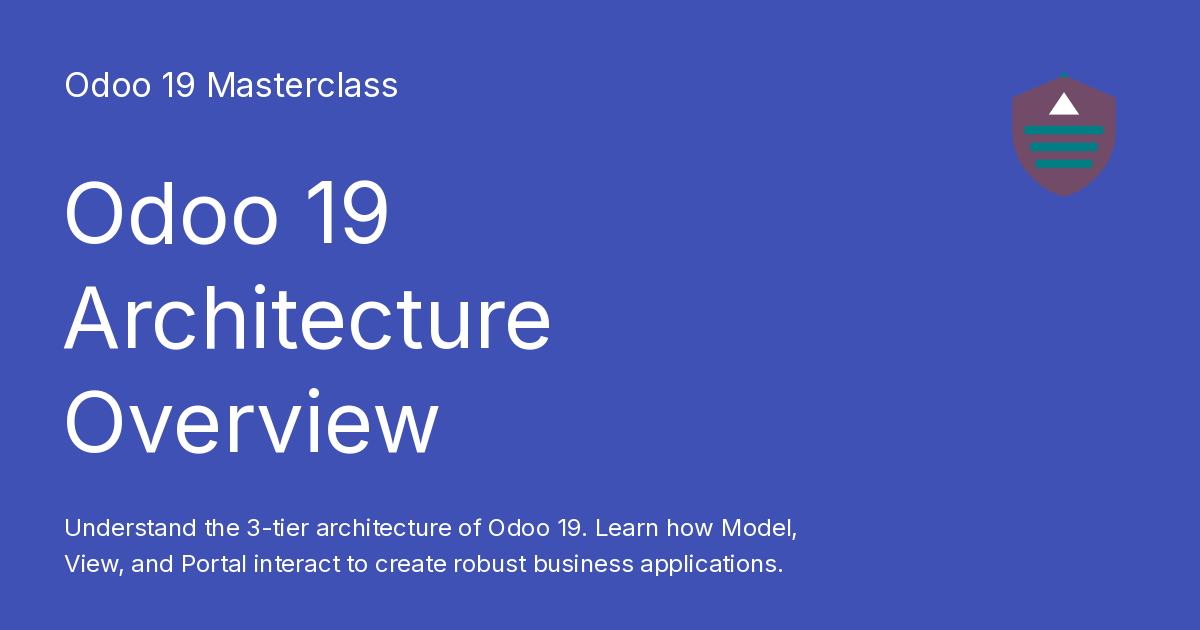
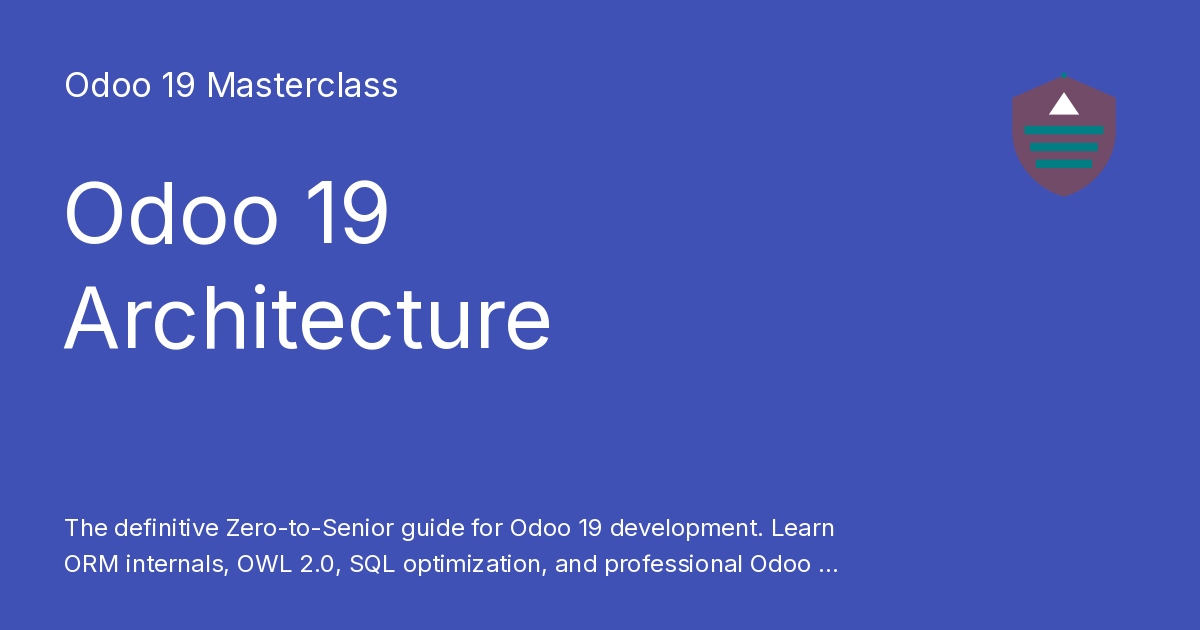
fix(docs): restore missing content and correctly add architectural diagrams and challenges

Changed region(s): [[0.0308, 0.8143, 0.7092, 0.9048], [0.0308, 0.6032, 0.37, 0.7238]]

diff --git a/docs/frontend/owl.md b/docs/frontend/owl.md
@@ -1,24 +1,215 @@
 ---
-title: Odoo 19 OWL Component Lifecycle
-description: Master the OWL 2.0 component lifecycle. Understand setup, mounting, and patching for reactive UIs.
+tags:
+  - Frontend
+  - Javascript
+  - OWL 2.0
+  - Components
 ---
 
-# Odoo 19: OWL Component Lifecycle
+# Odoo 19 OWL Framework
 
-OWL components go through a strict lifecycle.
+OWL (Owl Web Library) is the modern JavaScript framework used by Odoo to build fast, reactive, and component-based user interfaces.
+
+---
+
+## Component Lifecycle
 
 ```mermaid
 sequenceDiagram
-    participant C as Component
-    participant S as setup()
-    participant M as mount()
-    participant P as patch()
+    participant OWL as OWL Engine
+    participant Comp as Component
+    participant DOM as Browser DOM
+
+    Note over Comp: setup()
+    OWL->>Comp: 1. setup() (Initialize state/hooks)
+    OWL->>Comp: 2. onWillStart() (Async data fetch)
+    Comp-->>OWL: Data Ready
+    OWL->>Comp: 3. render()
+    Comp->>DOM: Patching DOM
+    OWL->>Comp: 4. onMounted() (DOM is ready)
     
-    C->>S: Initialize State/Services
-    S->>M: DOM Insertion
-    M->>P: Reactive Updates
+    Note over Comp: Component Updates...
+    
+    OWL->>Comp: 5. onWillUnmount() (Cleanup)
+    Comp->>DOM: Removed from DOM
 ```
 
 ### Master Project Challenge: OWL
 1.  **Task**: Add a `useEffect` hook to your `AuctionTimer` component that logs "Component Mounted" on initialization.
 2.  **Goal**: Understand when state becomes reactive in the lifecycle.
+
+---
+
+## What is OWL?
+
+OWL is a declarative component framework, similar to Vue or React, but specifically optimized for the Odoo ecosystem.
+
+- **Component-based**: UI is split into small, reusable pieces.
+- **Reactive**: The UI updates automatically when data changes.
+- **Templates**: Uses QWeb templates for rendering.
+- **Hooks**: Specialized functions for lifecycle and service management.
+
+---
+
+## Basic Component Structure
+
+Every OWL component is a JavaScript class that extends `Component`.
+
+### Simple Example: Counter Component
+A basic example showing state management and event handling.
+
+```javascript
+import { Component, useState, xml } from "@odoo/owl";
+
+export class Counter extends Component {
+    static template = xml`
+        <div class="p-4 bg-light border text-center">
+            <h3>Count: <t t-out="state.value"/></h3>
+            <button class="btn btn-primary" t-on-click="increment">Add +1</button>
+        </div>
+    `;
+
+    setup() {
+        this.state = useState({ value: 0 });
+    }
+
+    increment() {
+        this.state.value++;
+    }
+}
+```
+
+---
+
+## Senior Example: Data Dashboard
+A more advanced example using Odoo services to fetch real-time auction data.
+
+```javascript
+import { Component, useState, onWillStart } from "@odoo/owl";
+import { useService } from "@web/core/utils/hooks";
+
+export class AuctionDashboard extends Component {
+    static template = "pways_auction.Dashboard";
+    
+    setup() {
+        // Services injection
+        this.orm = useService("orm");
+        this.notification = useService("notification");
+        
+        // Reactive state
+        this.state = useState({
+            listings: [],
+            loading: true
+        });
+
+        // Lifecycle Hook: Fetch data before rendering
+        onWillStart(async () => {
+            try {
+                this.state.listings = await this.orm.searchRead(
+                    "auction.listing",
+                    [ ["state", "=", "active"] ],
+                    ["name", "current_price", "end_date"]
+                );
+            } catch (error) {
+                this.notification.add("Failed to load auctions", { type: "danger" });
+            } finally {
+                this.state.loading = false;
+            }
+        });
+    }
+}
+```
+
+---
+
+## Hooks Reference
+
+| Hook | Description |
+| :--- | :--- |
+| `setup()` | Called when the component is created. Used to initialize state and services. |
+| `onWillStart()` | Asynchronous hook called before the first render. Ideal for fetching data. |
+| `onMounted()` | Called after the component is added to the DOM. |
+| `onWillUnmount()` | Called just before the component is destroyed. Used for cleanup. |
+| `onPatched()` | Called after the component has updated its DOM. |
+
+!!! tip "Tip"
+    Always use `useService` inside the `setup()` method to ensure services are correctly injected into your component.
+
+---
+
+## Best Practices
+
+- **Keep Components Small**: One component should do one thing well.
+- **Use Props for Input**: Pass data from parent to child using `props`.
+- **Cleanup in Unmount**: Always clear timers or event listeners in `onWillUnmount` to prevent memory leaks.
+- **Declarative UI**: Avoid direct DOM manipulation (like `document.getElementById`). Let OWL handle the rendering via state and templates.
+
+---
+
+## 🚀 Odoo 19: The OWL 2.0 Revolution
+
+Odoo 19 fully embraces **OWL 2.0**, which introduces several breaking improvements over 1.0.
+
+### 1. The Slot System
+Slots allow you to pass XML content to a child component, making components much more reusable.
+```xml
+<MyComponent>
+    <t t-set-slot="header">
+        <h1>Custom Header</h1>
+    </t>
+</MyComponent>
+```
+
+### 2. Hooks-only Setup
+In OWL 2.0, the `setup()` method is the **only** place where you can call hooks like `useState` or `useService`. Calling them in other methods will raise an error.
+
+---
+
+## Senior: OWL Registries
+
+Registries are the "Key-Value" storage system Odoo uses to manage its modularity in the frontend. Instead of hardcoding components, Odoo looks them up in a registry.
+
+### Common Registry Categories
+- **`services`**: Global JS utilities.
+- **`fields`**: Custom field widgets (e.g., a special slider for "Bid Amount").
+- **`views`**: Entirely custom view types.
+- **`main_components`**: Components that should always be present in the UI.
+
+### Example: Registering a Custom Field Widget
+```javascript
+import { registry } from "@web/core/registry";
+import { CharField } from "@web/views/fields/char/char_field";
+
+class MyCustomField extends CharField {
+    // Custom logic here
+}
+
+// Add it to the "fields" category
+registry.category("fields").add("auction_star_rating", {
+    component: MyCustomField,
+    supportedTypes: ["integer"],
+});
+```
+
+!!! tip "Architect Insight"
+    Registries allow you to extend Odoo without ever touching the core source code. By adding your component to a registry category, Odoo's generic views (like Form or List) can dynamically discover and use your code.
+
+---
+
+## 🏁 Senior Checkpoint
+*   **Key Concept:** OWL is a reactive, component-based framework tailored for Odoo.
+*   **Architect Insight:** `onWillStart` is the only hook that supports `async`, making it the mandatory place for initial ORM/RPC data fetching.
+*   **Verify Your Knowledge:** Why should you use `useState` instead of a plain object? (Answer: Because `useState` makes the object reactive, triggering re-renders on change).
+
+!!! success "Next Step"
+    Components are ready. Now learn to [Register Assets](assets.md) in the Odoo bundle system.
+
+---
+
+<div class="feedback-container">
+    <span class="feedback-label">Was this page helpful?</span>
+    <div class="feedback-buttons">
+        <button class="feedback-btn" onclick="sendFeedback(true)">👍 Yes</button>
+        <button class="feedback-btn" onclick="sendFeedback(false)">👎 No</button>
+    </div>
+</div>

diff --git a/docs/foundation/architecture.md b/docs/foundation/architecture.md
@@ -1,11 +1,6 @@
----
-title: Odoo 19 Architecture Overview
-description: Understand the 3-tier architecture of Odoo 19. Learn how Model, View, and Portal interact to create robust business applications.
----
+# Odoo 19 Architecture: The 3-Tier System
 
-# Odoo 19: Architecture Overview
-
-To master Odoo, you must understand the 3-Tier Architecture.
+Understanding Odoo's architecture is the first step toward becoming a Senior Developer. Odoo follows a classic **3-Tier Architecture** that separates data, logic, and presentation.
 
 ```mermaid
 graph TD
@@ -21,3 +16,140 @@ graph TD
 ### Master Project Challenge: Architecture
 1.  **Task**: Diagram the interaction of your `auction.listing` model.
 2.  **Goal**: Identify the Controller route that will handle the "Bid" action.
+
+---
+
+## 🍽️ The Restaurant Analogy (Easy Understanding)
+
+To remember Odoo's architecture, think of it as a **Professional Restaurant**:
+
+1.  **The Dining Area (Frontend/OWL):** This is where the **User** sits. They see the menu (UI) and place orders (Clicks). They don't see the stove or the ingredients.
+2.  **The Waiter (Controller/RPC):** The waiter takes the order from the customer and carries it to the kitchen. This is the **JSON-RPC** link that bridges the gap.
+3.  **The Kitchen (Server/Python):** This is where the **Chef (ORM)** lives. The Chef takes the raw ingredients (Data), follows the recipe (Business Logic), and prepares the meal.
+4.  **The Pantry (Database/PostgreSQL):** This is where all the **Ingredients (Records)** are stored. The Chef goes here to get what they need.
+
+---
+
+## 1. The Three Tiers
+
+Odoo is designed to be scalable and modular. Each tier handles a specific responsibility:
+
+### Tier 1: Presentation (The Web Client)
+- **Technology:** JavaScript, OWL (Odoo Web Library), HTML5, CSS3.
+- **Role:** This is the browser-side application. It communicates with the server via **JSON-RPC**.
+- **Key Feature:** Odoo 19 uses a Single Page Application (SPA) approach where the UI is rendered dynamically using OWL components.
+
+### Tier 2: Logic (The Odoo Server)
+- **Technology:** Python.
+- **Role:** The heart of Odoo. It handles the **ORM (Object-Relational Mapping)**, business logic, security (ACLs), and coordinates between the UI and the Database.
+- **Key Feature:** Highly modular. You extend functionality by "inheriting" existing Python classes.
+
+### Tier 3: Data (The Database)
+- **Technology:** PostgreSQL.
+- **Role:** Stores all persistent data. Odoo handles the SQL generation, so you rarely need to write raw SQL.
+- **Key Feature:** Odoo uses a schema where each Python Model corresponds to a Database Table.
+
+---
+
+## 2. The Request/Response Cycle
+
+How does a "Click" in the browser become a "Record" in the database?
+
+```mermaid
+sequenceDiagram
+    participant U as User (Browser)
+    participant C as Controller (HTTP)
+    participant O as ORM (Python)
+    participant D as Database (Postgres)
+
+    U->>C: Clicks "Save" (JSON-RPC)
+    C->>O: Triggers create() or write()
+    O->>O: Validates Security & Constrains
+    O->>D: SQL INSERT/UPDATE
+    D-->>O: Confirmation
+    O-->>C: Returns Record ID
+    C-->>U: Updates UI with new data
+```
+
+### 1. The Request (JSON-RPC)
+When you click a button, the browser sends a JSON-RPC request to a specific URL (e.g., `/web/dataset/call_kw`). It includes:
+- **Model:** The model to act on (e.g., `auction.listing`).
+- **Method:** The Python method to call (e.g., `action_confirm`).
+- **Arguments:** Any data the method needs.
+
+### 2. The Dispatcher
+The Odoo server receives the request. The **Dispatcher** identifies the correct database and environment (`self.env`), then routes the call to the appropriate Python model.
+
+### 3. Business Logic (ORM)
+The Python method executes. This is where your code lives!
+- It might calculate prices.
+- It might trigger an email.
+- It might update related records.
+
+### 4. Database Commitment
+Finally, the ORM translates your Python objects into SQL commands. PostgreSQL executes the SQL and persists the data.
+
+### 5. The Response
+The server sends back a JSON response. The OWL components in the browser catch this response and update the UI instantly without a full page reload.
+
+---
+
+## 3. Why this matters?
+
+| Concept | Benefit |
+| :--- | :--- |
+| **Separation of Concerns** | You can change the UI (XML) without touching the Database (SQL). |
+| **Scalability** | You can run multiple Logic servers (Tier 2) connected to a single Database (Tier 3). |
+| **Security** | The Logic tier ensures that the User (Tier 1) can never bypass security rules to access the Data (Tier 3). |
+
+---
+
+## 📝 Knowledge Check
+
+<div class="quiz-container">
+  <div class="quiz-question">1. What are the three tiers in Odoo's architecture?</div>
+  <input type="text" class="quiz-input" placeholder="Type your answer here...">
+  <button class="quiz-check" data-answer="Presentation (Web Client), Logic (Odoo Server), and Data (PostgreSQL Database)." onclick="checkQuiz(this)">Check Answer</button>
+  <div class="quiz-result"></div>
+</div>
+
+<div class="quiz-container">
+  <div class="quiz-question">2. How does the Web Client communicate with the Odoo Server?</div>
+  <input type="text" class="quiz-input" placeholder="Type your answer here...">
+  <button class="quiz-check" data-answer="Via JSON-RPC requests." onclick="checkQuiz(this)">Check Answer</button>
+  <div class="quiz-result"></div>
+</div>
+
+<div class="quiz-container">
+  <div class="quiz-question">3. Which technology is primarily used for the Logic tier in Odoo?</div>
+  <input type="text" class="quiz-input" placeholder="Type your answer here...">
+  <button class="quiz-check" data-answer="Python." onclick="checkQuiz(this)">Check Answer</button>
+  <div class="quiz-result"></div>
+</div>
+
+<div class="quiz-container">
+  <div class="quiz-question">4. What is the role of the ORM in Odoo?</div>
+  <input type="text" class="quiz-input" placeholder="Type your answer here...">
+  <button class="quiz-check" data-answer="The ORM (Object-Relational Mapping) handles business logic, security, and translates Python objects into SQL commands for the database." onclick="checkQuiz(this)">Check Answer</button>
+  <div class="quiz-result"></div>
+</div>
+
+---
+
+## 🏁 Senior Checkpoint
+*   **Key Concept:** Odoo is a **stateful** application server communicating via **JSON-RPC**.
+*   **Architect Insight:** The boundary between the Frontend (OWL) and Backend (Python) is bridged by the **Bus Service**, enabling real-time WebSocket updates.
+*   **Verify Your Knowledge:** Can you explain why Odoo rarely requires raw SQL? (Answer: Because the ORM handles SQL generation and security automatically).
+
+!!! success "Next Step"
+    Now that you understand the big picture, let's [Set up your Environment](setup.md) to start coding.
+
+---
+
+<div class="feedback-container">
+    <span class="feedback-label">Was this page helpful?</span>
+    <div class="feedback-buttons">
+        <button class="feedback-btn" onclick="sendFeedback(true)">👍 Yes</button>
+        <button class="feedback-btn" onclick="sendFeedback(false)">👎 No</button>
+    </div>
+</div>